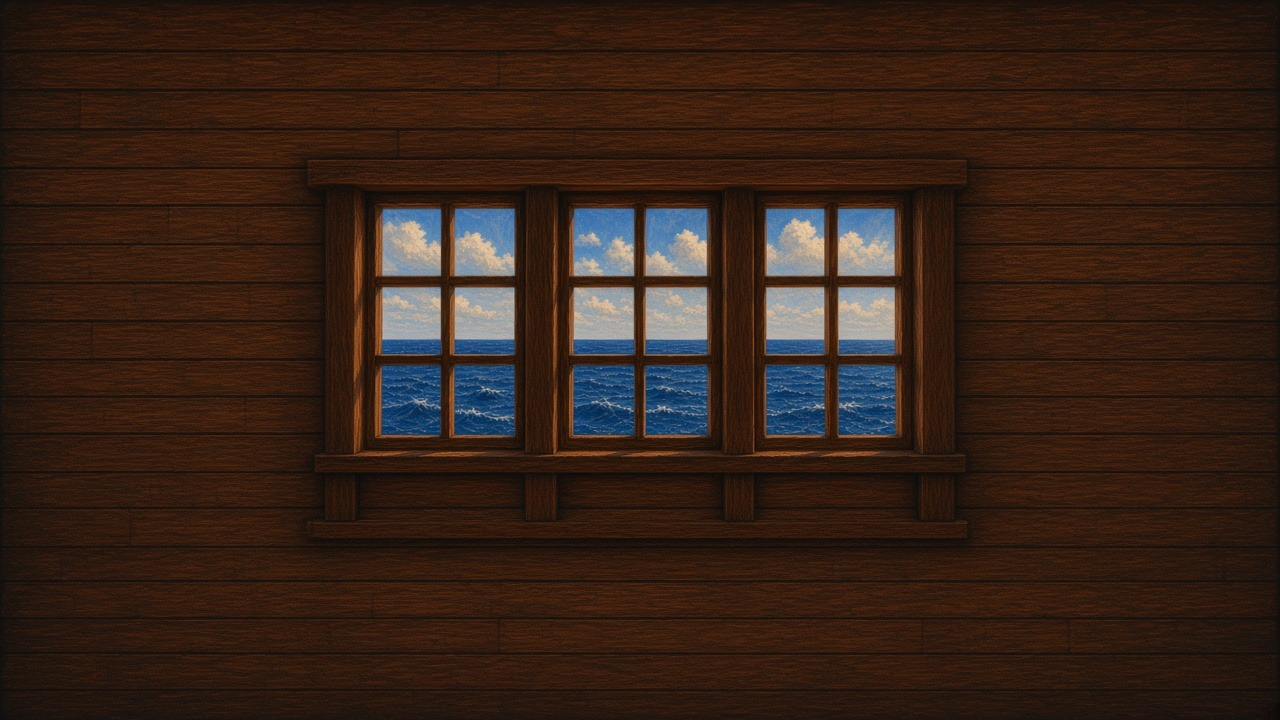
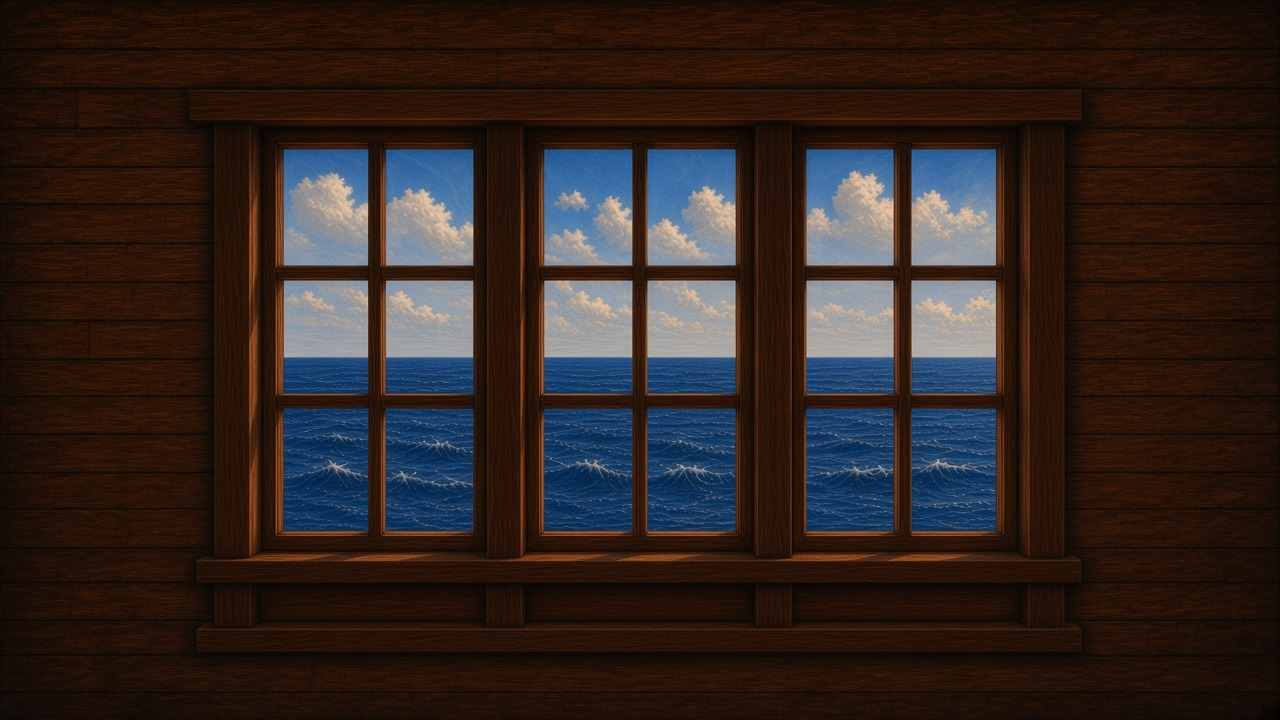
Enlarge stern wall windows slightly (#28)
* Enlarge stern wall windows slightly

Keep side wood margins while making the three-window bank
taller and wider on the empty stern bulkhead.

* Cache-bust enlarged stern wall image

---------

diff --git a/pirates-cabin.html b/pirates-cabin.html
@@ -27,7 +27,7 @@
     <main class="cabin-stage" aria-label="Captain’s cabin stern wall">
       <div class="cabin-wall-view">
         <img
-          src="images/cabin-stern-wall.jpg?v=2"
+          src="images/cabin-stern-wall.jpg?v=3"
           alt="Empty stern wall with three daytime ocean windows"
           draggable="false"
         />
